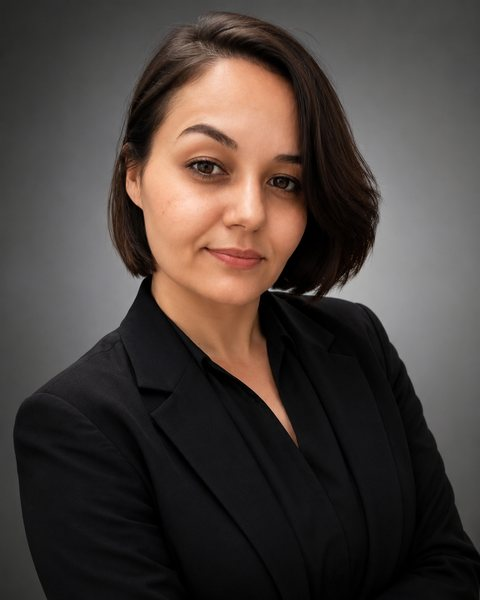
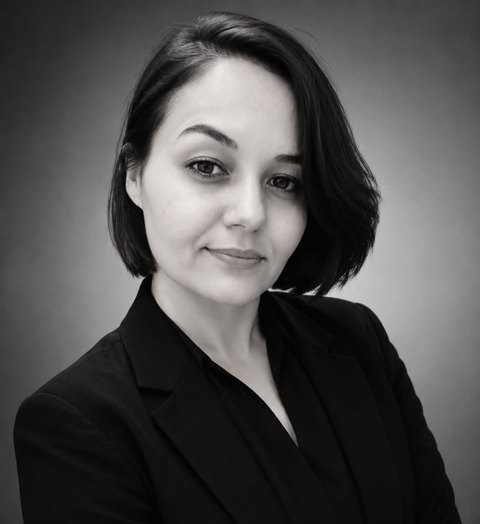
Troca o retrato do Sobre pela versão em preto e branco
A foto anterior tinha fundo cinza colorido; esta é monocromática, o que
assenta melhor numa paleta que só tem preto, cinza e um azul de acento.

A proporção mudou de 0,800 para 0,916, então a altura declarada no
componente passa de 600 para 524. Sem esse ajuste a caixa reservada
deixaria de bater com a imagem e voltaria a haver deslocamento no
carregamento — que é justamente o que os atributos existem para evitar.

Changed region(s): [[0.0312, 0.0, 1.0, 1.0], [0.6562, 0.2443, 0.6875, 0.2748]]

diff --git a/packages/ui/primitivos/Retrato.tsx b/packages/ui/primitivos/Retrato.tsx
@@ -17,7 +17,10 @@ export function Retrato({
   base,
   alt,
   largura = 480,
-  altura = 600,
+  // Proporção do arquivo atual (1120 × 1223). Se a foto trocar, este
+  // número troca junto — senão a caixa reservada deixa de bater com a
+  // imagem e volta a haver deslocamento no carregamento.
+  altura = 524,
   prioritario = false,
 }: {
   base: string;
